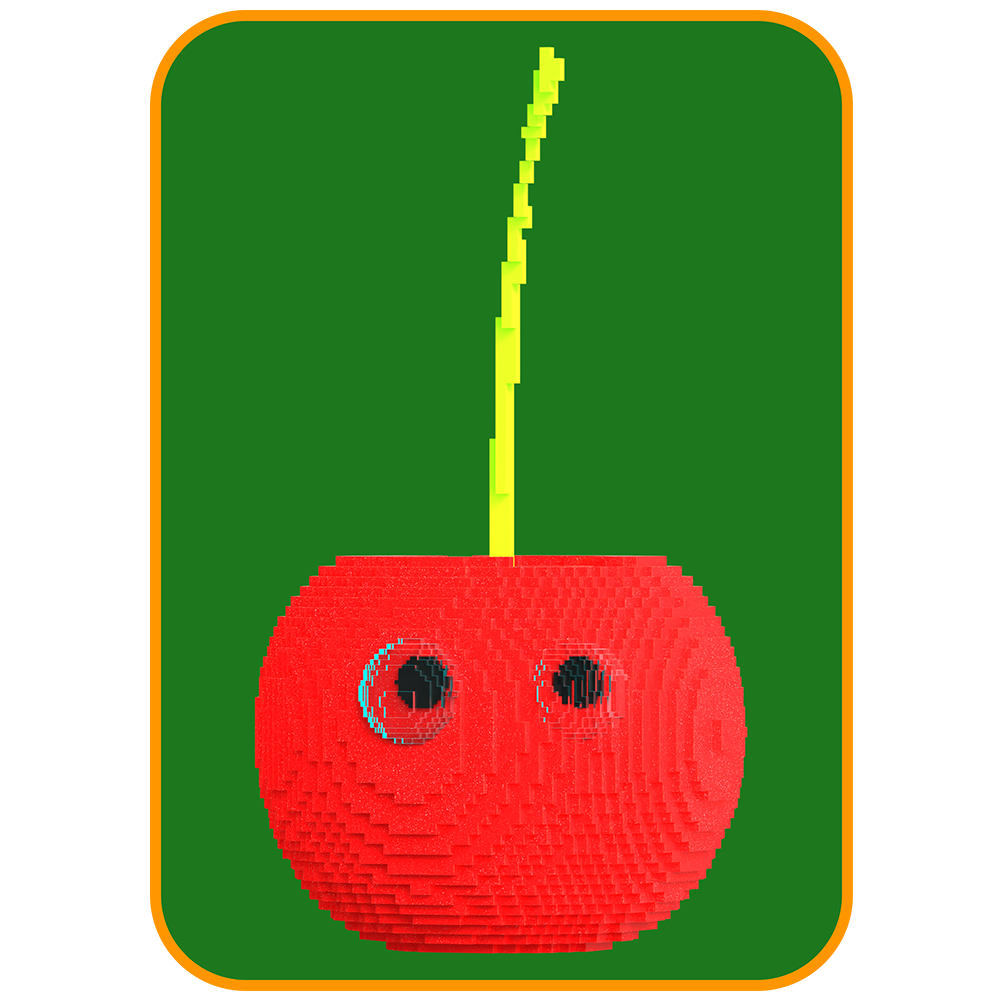
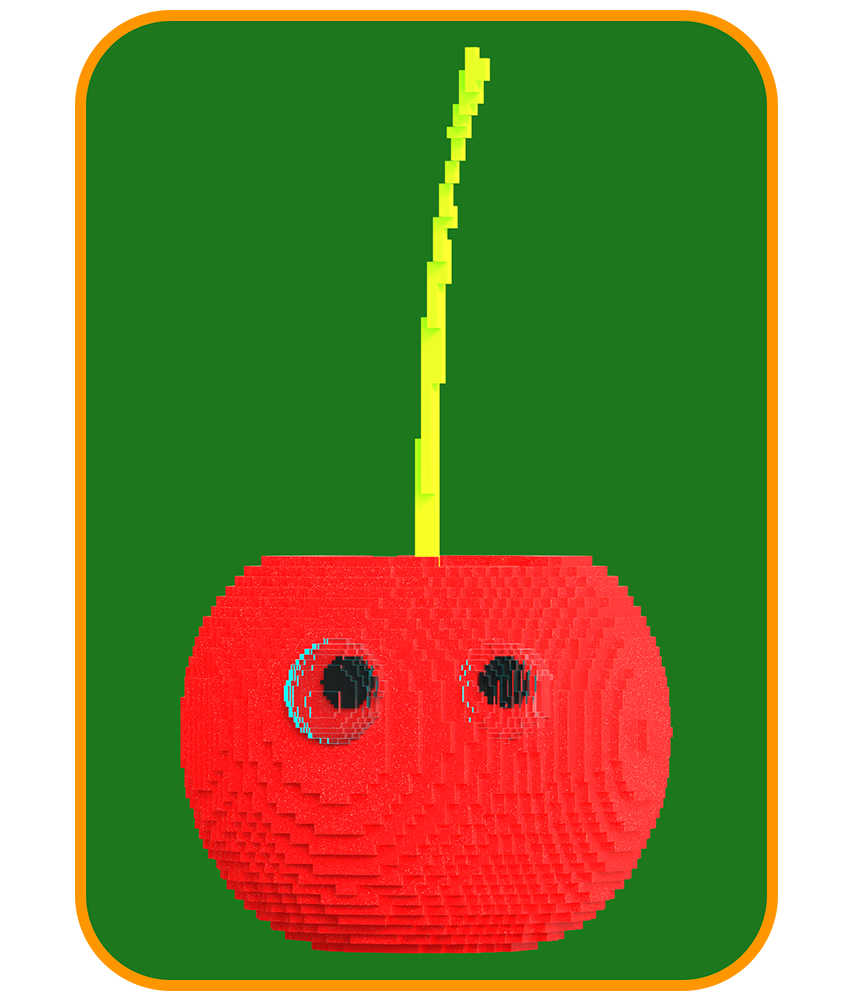
h

Changed region(s): [[0.0611, 0.0, 0.7944, 0.992], [0.7638, 0.0, 0.9166, 0.992], [0.4888, 0.031, 0.5805, 0.372]]

diff --git a/index.css b/index.css
@@ -9,8 +9,7 @@
 }
 .blocky-background-icon {
   position: relative;
-  width: 87.19em;
-  height: 88.06em;
+  width: 100%;
 }
 .blocky-bg,
 .blocky-icon {
